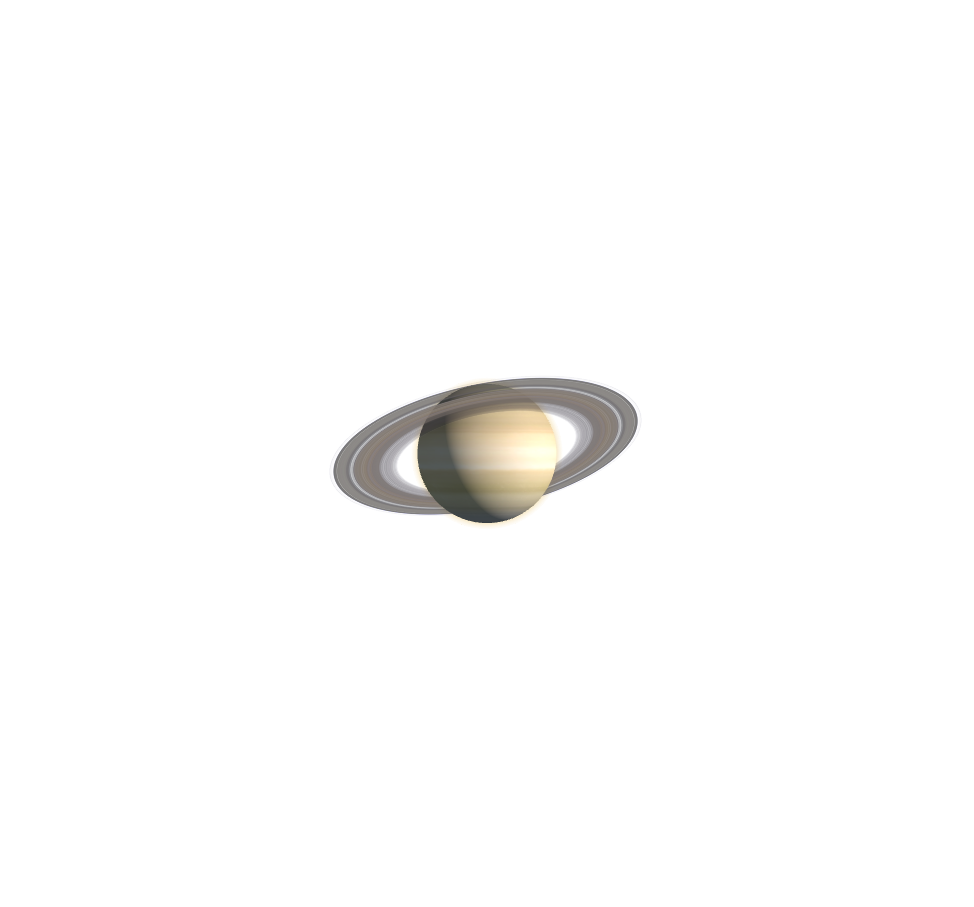
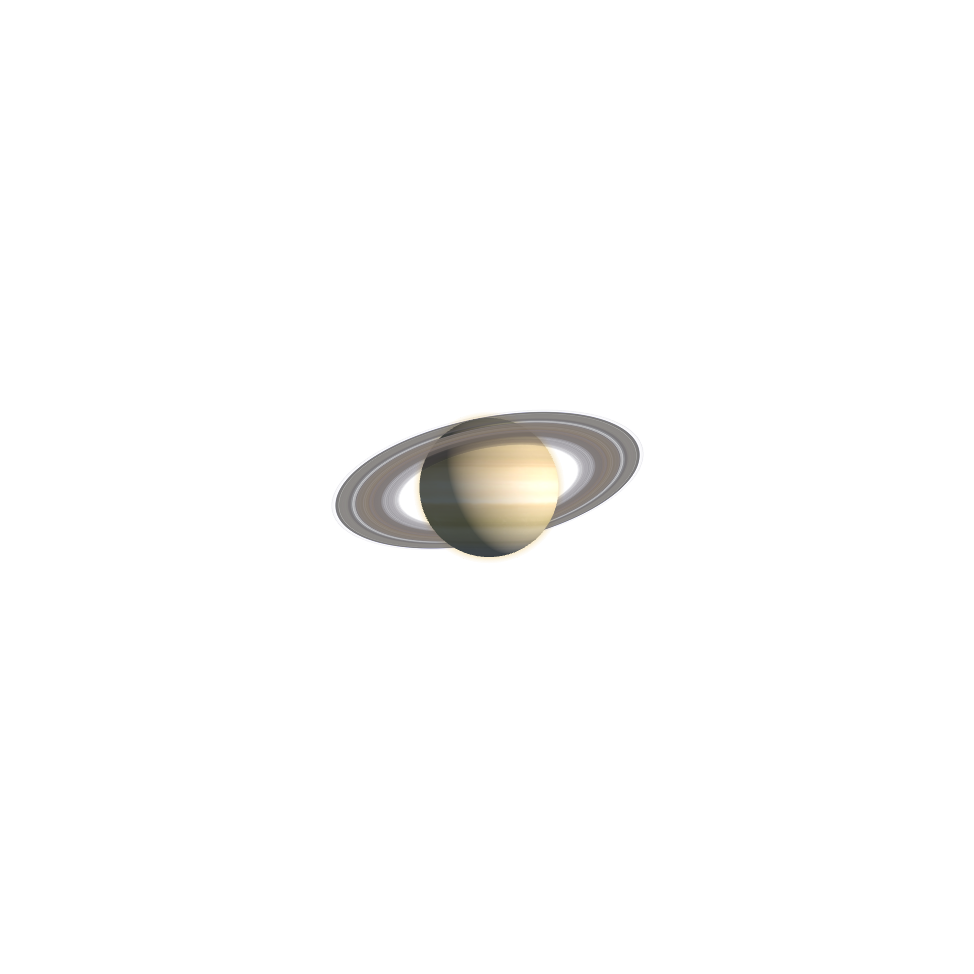
切换星球不再闪模糊影子：替身改延迟 180ms 才盖 + 替身素材补成正方形
用户实测："最简单的两个星球之间切换，都会出现先出现地球的模糊影子，一点都不流畅"。
这是我上两版"每次换星球都立刻盖替身"造成的回归——替身把错星球挡住了，却换上了一团
发虚的影子。量化根因（都已实测）：

1. 替身图里球体只有 300x299 真实像素，画到手机上约 726 设备像素（3 倍屏 242 逻辑像素）
   ＝放大约 2.4 倍，必然发虚 → 这就是"模糊影子"。
2. 素材原尺寸 974x907（长宽比 1.0739），却用 BoxFit.fill 画进**正方形**框 → 球被纵向
   拉伸 7.4%，替身球是椭圆，和真实正球对不上 → 交叉淡入时"形状/大小跳一下"。
3. 而缓存命中的换球压根不需要替身：实测同一场景内换球耗时
   首次去火星 6023ms（全新下载+解码+上传），之后 已缓存 12/6/9/5 ms。

两处修复：
- home_page.dart：新增 _armStandInCover()，换星球时**延迟 180ms** 才盖替身；场景一旦
  上报已接管当前页星球（planetReady 匹配）就撤销待盖。缓存命中只要 5~12ms，于是常规
  两球来回切换**全程真实画面、不盖任何替身**，干净利落。只有首次访问某颗星球（慢）
  才盖上当前页正确星球的替身，避免露出滞后的错星球。滑页走待盖；新建仍立刻盖
  （新星球贴图必然未缓存，且要挡住"上一颗被塞进新尺寸框"的错画面）。
- scripts/square_standins.py（新增，幂等）：把 5 张替身图补透明边成 974x974 正方形、
  球心居中，球宽/图宽比例不变。BoxFit.fill 于是变成纯等比缩放，替身球恢复正圆。

验证：flutter analyze 零问题；flutter test 244 全绿（新增"缓存命中不盖替身""替身素材
必须正方形"两组断言，并改写此前那条要求"滑页立刻盖"的过时断言）；web 构建通过；
换球耗时用真实场景在浏览器内实测（数据见上）。

遗留（未做，待真机确认后再定）：首次访问某颗星球仍要盖替身，此时那团影子依旧偏软——
根治要重新生成更高分辨率的替身图（现球体仅 300px）。若真机上首次加载也很慢，还应同步
降贴图显存（地球底图 4096→2048、细节图降级、纹理缓存 2→1）。

Changed region(s): [[0.3388, 0.4013, 0.6776, 0.5865], [0.5544, 0.5248, 0.5852, 0.5557]]

diff --git a/test/presentation/planet_scene_touch_config_test.dart b/test/presentation/planet_scene_touch_config_test.dart
@@ -17,6 +17,14 @@ String functionBody(String source, String name) {
   fail('函数 $name 没有闭合');
 }
 
+/// 读 PNG 头里的宽高（IHDR 紧跟 8 字节签名，宽高各 4 字节大端）
+(int, int) decodePngSize(List<int> bytes) {
+  int be32(int at) =>
+      (bytes[at] << 24) | (bytes[at + 1] << 16) | (bytes[at + 2] << 8) |
+      bytes[at + 3];
+  return (be32(16), be32(20));
+}
+
 void main() {
   final webWrapper = File(
     'lib/presentation/home/planet_scene/planet_scene_web.dart',
@@ -458,11 +466,55 @@ void main() {
     expect(ioWrapper, contains('Timer? _watchdog'));
   });
 
-  test('左右滑动切星球也盖替身：滑到不同星球页复位就绪，避免先闪错星球+大小跳', () {
+  test('缓存命中的换星球全程不盖替身：替身改为延迟 180ms 才盖', () {
+    // 替身图里球体只有 300px 真实像素，画到手机上约 726 设备像素（3 倍屏）＝放大
+    // 2.4 倍，一盖就是一团发虚的影子。用户实测"两个星球之间切换都先出现地球的模糊
+    // 影子，一点都不流畅"。而贴图已在场景缓存里时换球只需一帧，本就不需要替身。
+    expect(homePage, contains('Timer? _standInCoverTimer'));
+    expect(homePage, contains('void _armStandInCover()'));
+    expect(homePage, contains('Duration(milliseconds: 180)'));
+    // 场景追上当前页星球即撤销待盖，于是缓存命中时压根不盖
+    final onReady = homePage.substring(
+      homePage.indexOf('void _onPlanetSceneReady('),
+      homePage.indexOf('void _precachePlanetStandIns('),
+    );
+    expect(onReady, contains('_sceneShownPlanet = readyPlanet'));
+    expect(onReady, contains('_standInCoverTimer?.cancel()'));
+    // 滑页走"待盖"而不是立刻盖
+    final onPageChanged = homePage.substring(
+      homePage.indexOf('onPageChanged: (i) => setState(() {'),
+      homePage.indexOf('// ClipRect'),
+    );
+    expect(onPageChanged, contains('_armStandInCover()'));
+    expect(
+      onPageChanged,
+      isNot(contains('_sharedSceneReady = false')),
+      reason: '滑页不得立刻盖替身，否则缓存命中也要闪一下模糊影子',
+    );
+  });
+
+  test('替身素材必须是正方形：否则 BoxFit.fill 会把球拉成椭圆', () {
+    // 替身画进正方形框（width/height 都是 full，fit: BoxFit.fill）。素材原为
+    // 974x907，会被纵向拉伸 7.4% → 替身是椭圆、与真实正球对不上，交叉淡入时
+    // "形状/大小跳一下"（用户实测）。素材已补边为正方形，球心居中。
+    for (final name in ['earth', 'mars', 'jupiter', 'venus', 'saturn']) {
+      final bytes = File(
+        'assets/planet_scene/standins/$name.png',
+      ).readAsBytesSync();
+      final decoded = decodePngSize(bytes);
+      expect(
+        decoded.$1,
+        decoded.$2,
+        reason: '$name.png 必须是正方形，实际 ${decoded.$1}x${decoded.$2}',
+      );
+    }
+  });
+
+  test('左右滑动切到未缓存星球时才盖替身：避免露出滞后的错星球', () {
     // 用户实测：不止新建，左右滑动 3→4、4→5 也"先闪错星球 + 大小/位置跳"。
-    // 根因同新建——共享场景串行换球要 ~1s，期间仍显示上一颗（且被塞进新页尺寸框）。
-    // onPageChanged 落到不同星球页时必须复位 _sharedSceneReady，让该页替身盖住，
-    // 揭幕仍只认场景换到该页星球（planetReady 匹配，与新建同一套机制）。
+    // 根因——共享场景串行换球，首次访问某颗要 ~1s，期间仍显示上一颗（且被塞进新页
+    // 尺寸框）。所以滑到不同星球时要**待盖**替身；但贴图已缓存时换球只需一帧，
+    // 180ms 内就绪就不盖（否则每次切换都闪一团模糊影子，见上一条测试）。
     final onPageChanged = homePage.substring(
       homePage.indexOf('onPageChanged: (i) => setState(() {'),
       homePage.indexOf('// ClipRect'),
@@ -470,10 +522,16 @@ void main() {
     expect(
       onPageChanged,
       contains('newPlanet != _sharedSceneConfig?.planet'),
-      reason: '滑到与当前场景不同的星球才盖替身（同星球零打扰）',
+      reason: '滑到与当前场景不同的星球才待盖替身（同星球零打扰）',
     );
-    expect(onPageChanged, contains('_sharedSceneReady = false'));
-    expect(onPageChanged, contains('_armSceneRevealFallback()'));
+    expect(onPageChanged, contains('_armStandInCover()'));
+    // 真的等久了才盖，并同时武装兜底揭幕
+    final coverBody = homePage.substring(
+      homePage.indexOf('void _armStandInCover()'),
+      homePage.indexOf('void _armSceneRevealFallback()'),
+    );
+    expect(coverBody, contains('_sharedSceneReady = false'));
+    expect(coverBody, contains('_armSceneRevealFallback()'));
   });
 
   test('切页时星空亮度延后到 planetReady 后更新，避免和贴图上传抢同一帧', () {

diff --git a/lib/presentation/home/home_page.dart b/lib/presentation/home/home_page.dart
@@ -116,6 +116,15 @@ class _HomePageState extends ConsumerState<HomePage> {
   Timer? _sceneRevealTimer;
   Timer? _sceneFallbackTimer;
 
+  /// 场景最近一次上报"已接管"的星球名（与当前页星球比对，判断要不要盖替身）
+  String? _sceneShownPlanet;
+
+  /// 延迟盖替身的计时器。替身图里球体只有 300px 真实像素，画到手机上约 726
+  /// 设备像素（3 倍屏）＝放大 2.4 倍，必然发虚——所以**只有真的等得久才盖**：
+  /// 贴图已在场景缓存里时换球只需一帧，180ms 内就绪就压根不盖，切换干净利落
+  /// （用户实测"两个星球之间切换都先出现地球的模糊影子，一点都不流畅"）。
+  Timer? _standInCoverTimer;
+
   /// 启动封面：事件驱动揭开——等星球场景真正就绪（而非拍脑袋定时），
   /// 封面期间 iframe 初始化/贴图上传/星云编译全部做完，揭开即流畅。
   /// 只在冷启动出现一次；从魔树页返回不再盖（快照替身已兜住重建期）。
@@ -152,6 +161,7 @@ class _HomePageState extends ConsumerState<HomePage> {
     _sceneRevealTimer?.cancel();
     _sceneFallbackTimer?.cancel();
     _deferredSceneTimer?.cancel();
+    _standInCoverTimer?.cancel();
     final snapshotCompleter = _sharedSnapshotCompleter;
     if (snapshotCompleter != null && !snapshotCompleter.isCompleted) {
       snapshotCompleter.complete();
@@ -166,8 +176,12 @@ class _HomePageState extends ConsumerState<HomePage> {
     // 关键：只在场景**真正换到当前页星球**时才揭幕。共享场景是串行换球队列，
     // 快速新建时会滞后 1~2 颗；若任一次 planetReady 都揭幕，替身会在场景还停在
     // 滞后的旧星球时淡出，露出错星球（用户实测"新建先出地球 / 后面还出小土星"）。
+    _sceneShownPlanet = readyPlanet;
     final want = _sharedSceneConfig?.planet;
     if (want != null && readyPlanet != want) return;
+    // 场景已追上当前页：撤销"待盖替身"，缓存命中的换球因此全程不露替身
+    _standInCoverTimer?.cancel();
+    _standInCoverTimer = null;
     _scheduleSceneReveal();
     // 新建星球已整包接管（全清）→ 清除一步到位标记，之后滑页回该星球恢复常规两相
     if (_immediateDetailNovelId != null) _immediateDetailNovelId = null;
@@ -297,6 +311,27 @@ class _HomePageState extends ConsumerState<HomePage> {
         setState(() => _sharedSceneReady = true);
       }
       planetSceneReadyTick.value++;
+    });
+  }
+
+  /// 换星球时**延迟**盖替身：贴图已在场景缓存里（滑回看过的星球）时换球只需一帧，
+  /// 180ms 内就绪就压根不盖，切换干净利落；只有真的加载慢（首次访问该星球）才盖上
+  /// 当前页正确星球的替身，避免露出滞后的错星球。
+  ///
+  /// 之所以不再"一律立刻盖"：替身图里球体只有 300px 真实像素，在手机上要放大约
+  /// 2.4 倍，一盖就是一团发虚的影子——用户实测"两个星球之间切换都先出现地球的
+  /// 模糊影子，一点都不流畅"。
+  void _armStandInCover() {
+    _standInCoverTimer?.cancel();
+    _standInCoverTimer = Timer(const Duration(milliseconds: 180), () {
+      _standInCoverTimer = null;
+      if (!mounted) return;
+      final want = _sharedSceneConfig?.planet;
+      // 场景已经显示的就是当前页星球 → 无需替身
+      if (want == null || _sceneShownPlanet == want) return;
+      if (!_sharedSceneReady) return; // 已经在盖了
+      setState(() => _sharedSceneReady = false);
+      _armSceneRevealFallback();
     });
   }
 
@@ -521,11 +556,12 @@ class _HomePageState extends ConsumerState<HomePage> {
                           final newPlanet = (i >= 0 && i < novels.length)
                               ? novels[i].planet
                               : null;
-                          // 目标星球与当前场景所显星球不同才盖替身（同星球零打扰）
+                          // 目标星球与当前场景所显星球不同才**待盖**替身（同星球零打扰）。
+                          // 注意是"待盖"：贴图已缓存时换球只需一帧，180ms 内就绪就不盖，
+                          // 于是常规两球来回切换全程是真实画面，无模糊影子、无闪动。
                           if (newPlanet != null &&
                               newPlanet != _sharedSceneConfig?.planet) {
-                            _sharedSceneReady = false;
-                            _armSceneRevealFallback();
+                            _armStandInCover();
                           }
                         } else {
                           _visibleStarfieldPage = i;

diff --git a/scripts/square_standins.py b/scripts/square_standins.py
@@ -1,0 +1,42 @@
+# 把星球替身图补成正方形（不缩放、只补透明边），并让球心落在图心。
+#
+# 为什么必须做：替身在 Flutter 侧是 `Image.asset(..., width: full, height: full,
+# fit: BoxFit.fill)` 画进**正方形**框，而素材原是 974x907（长宽比 1.0739）——
+# BoxFit.fill 会把球纵向拉伸 7.4%，替身球是椭圆，和真实场景的正球对不上，
+# 交叉淡入时就是"大小/形状跳一下"（用户实测）。
+#
+# 补边后 BoxFit.fill 变成纯等比缩放：球保持正圆，且"球宽/图宽"比例不变，
+# 仍与当初从真实场景截取时的取景一致（画在 3×直径 的框里 = 0.924×直径）。
+#
+# 幂等：已是正方形且球心居中的图不再改动。用法：python scripts/square_standins.py
+import pathlib
+from PIL import Image
+
+DIR = pathlib.Path(__file__).resolve().parent.parent / 'assets/planet_scene/standins'
+
+for path in sorted(DIR.glob('*.png')):
+    im = Image.open(path).convert('RGBA')
+    w, h = im.size
+    bbox = im.split()[3].getbbox()
+    if not bbox:
+        print(f'跳过 {path.name}：整图透明')
+        continue
+    cx, cy = (bbox[0] + bbox[2]) / 2, (bbox[1] + bbox[3]) / 2
+    side = max(w, h)
+    # 目标：球心落在新图正中
+    off_x = round(side / 2 - cx)
+    off_y = round(side / 2 - cy)
+    if w == h and off_x == 0 and off_y == 0:
+        print(f'{path.name}：已是正方形且球心居中，跳过')
+        continue
+    out = Image.new('RGBA', (side, side), (0, 0, 0, 0))
+    out.paste(im, (off_x, off_y))
+    out.save(path)
+    nb = out.split()[3].getbbox()
+    ncx, ncy = (nb[0] + nb[2]) / 2, (nb[1] + nb[3]) / 2
+    print(
+        f'{path.name}: {w}x{h} -> {side}x{side}，'
+        f'球径 {nb[2] - nb[0]}x{nb[3] - nb[1]}，'
+        f'球心偏移 ({ncx - side / 2:+.1f}, {ncy - side / 2:+.1f})，'
+        f'球宽/图宽 {(nb[2] - nb[0]) / side:.4f}'
+    )

diff --git a/docs/CODE_MAP.md b/docs/CODE_MAP.md
@@ -1,7 +1,7 @@
 # 代码地图（CODE MAP）
 
 > ⚠ 本文件由 `scripts/update_code_map.sh` 自动生成，请勿手工编辑。
-> 生成时间：2026-07-25 16:26:24　对应提交：b2cc94e 之后的工作区状态
+> 生成时间：2026-07-27 10:02:08　对应提交：0ad3892 之后的工作区状态
 
 ## 一、索引状态
 
@@ -12,21 +12,21 @@ CodeGraph Status
 Project: C:\Users\yunhao.zhou1\Desktop\Easy Create
 
 Index Statistics:
-  Files:     107
-  Nodes:     4,054
-  Edges:     19,078
-  DB Size:   20.56 MB
+  Files:     108
+  Nodes:     4,068
+  Edges:     19,096
+  DB Size:   20.64 MB
   Backend:   node:sqlite - built-in (full WAL)
   Journal:   wal
 
 Nodes by Kind:
-  method          1,562
-  function        1,371
+  method          1,563
+  function        1,373
   class           466
-  import          330
+  import          332
   constant        195
-  file            99
-  variable        14
+  file            100
+  variable        22
   type_alias      12
   enum_member     2
   namespace       2
@@ -42,6 +42,7 @@ Files by Language:
   swift           3
   typescript      2
   c               1
+  python          1
 
 [OK] Index is up to date
 
@@ -51,7 +52,7 @@ Files by Language:
 
 ```
 
-Project Structure (107 files):
+Project Structure (108 files):
 
 |-- .agents
 |   `-- skills
@@ -163,7 +164,7 @@ Project Structure (107 files):
 |   |   |   |   |-- planet_scene_web.dart (dart, 19 symbols)
 |   |   |   |   |-- planet_scene.dart (dart, 6 symbols)
 |   |   |   |   `-- scene_server.dart (dart, 11 symbols)
-|   |   |   |-- home_page.dart (dart, 97 symbols)
+|   |   |   |-- home_page.dart (dart, 98 symbols)
 |   |   |   |-- orbiting_inspirations.dart (dart, 20 symbols)
 |   |   |   |-- planet_view.dart (dart, 19 symbols)
 |   |   |   |-- saturn_rings_painter.dart (dart, 12 symbols)
@@ -194,7 +195,8 @@ Project Structure (107 files):
 |   `-- main.dart (dart, 14 symbols)
 |-- scripts
 |   |-- e2e_probe.dart (dart, 12 symbols)
-|   `-- serve_web.dart (dart, 4 symbols)
+|   |-- serve_web.dart (dart, 4 symbols)
+|   `-- square_standins.py (python, 11 symbols)
 |-- test
 |   |-- core
 |   |   |-- chinese_numbers_test.dart (dart, 4 symbols)
@@ -211,7 +213,7 @@ Project Structure (107 files):
 |   |   |-- magic_tree_model_test.dart (dart, 18 symbols)
 |   |   |-- orbiting_inspirations_test.dart (dart, 11 symbols)
 |   |   |-- outline_page_test.dart (dart, 24 symbols)
-|   |   |-- planet_scene_touch_config_test.dart (dart, 5 symbols)
+|   |   |-- planet_scene_touch_config_test.dart (dart, 8 symbols)
 |   |   |-- quick_capture_test.dart (dart, 16 symbols)
 |   |   |-- section_page_test.dart (dart, 24 symbols)
 |   |   |-- starfield_motion_test.dart (dart, 6 symbols)
